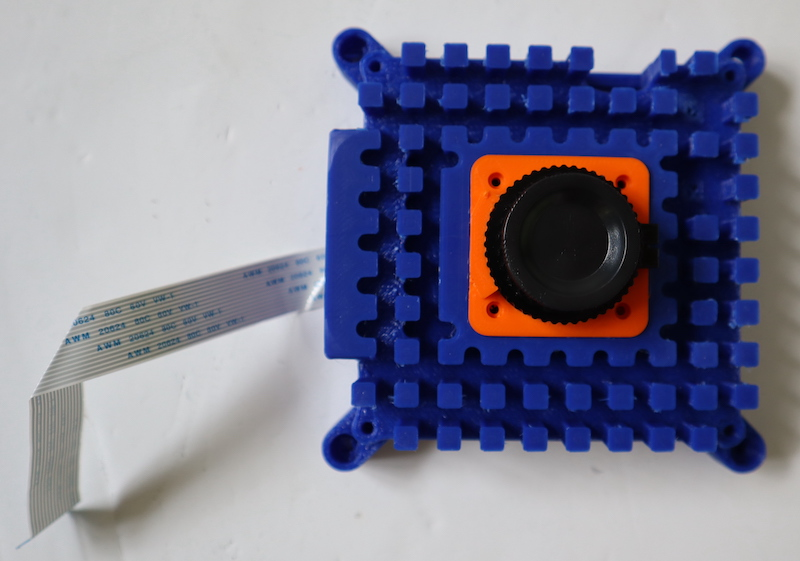
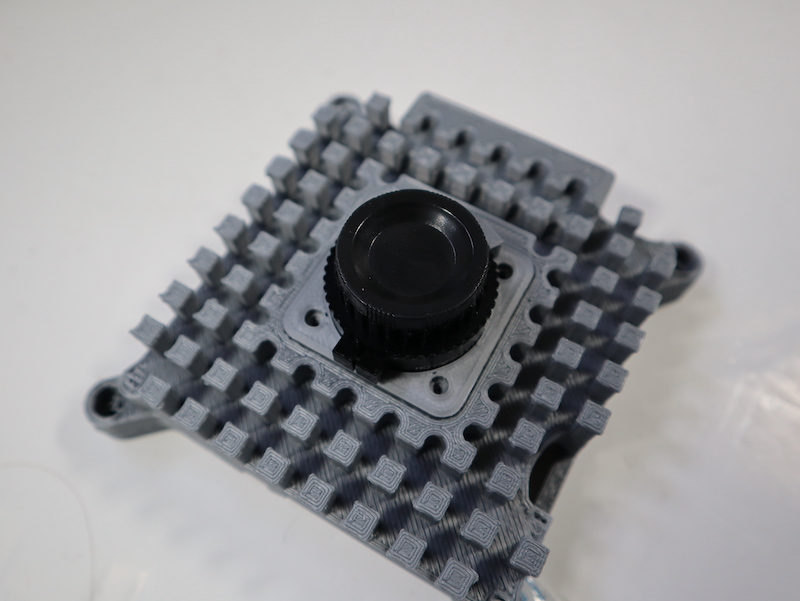
added more assembly photos for camera and spacers

diff --git a/en/step_5.md b/en/step_5.md
@@ -16,30 +16,40 @@ Firstly, remove the tripod mount form the HQC sensor by unscrewing the two bolts
 --- task ---
 Next, unscrew the two 1.5 mm hex lock keys on the underside of the main circuit board. Be careful not to let the washers roll away. There is a gasket of slightly sticky material between the housing and PCB which will require some force to separate.
 
+
 Lift up the board and place it face up on a very clean surface. Make sure the sensor (the small square in the middle) does not touch the surface.
+
+![Photo showing the disassembled Raspberry Pi HQC](images/HQC_disassembly.jpg)
+
+
 --- /task ---
 
 --- task ---
 
 Slide your 3D printed camera mount part around the black metal surround from the HQC sensor. Secure it place by lining up the holes in the bottom lip of the 3D printed part with the holes for the tripod mount. Attach using 2 XX screws (note you cannot use the original screws which held the tripod mount in place as they are too long)
 
+![Photo showing the Raspberry Pi HQC being attached to the 3D printed mount using an allen key](images/HQC_attach_screw.jpg)
+
+
 --- /task ---
 
 --- task ---
 Replace the main housing over the circuit board. Be sure to realign the housing with the gasket, which remains on the circuit board.
 
+[Photo showing the Raspberry Pi HQC PCB aligned back on the mount](images/HQC_no_screws.jpg)
+
 The nylon washer prevents damage to the circuit board; apply this washer first. Next, fit the steel washer, which prevents damage to the nylon washer.
 
 Screw down the two hex lock keys. As long as the washers have been fitted in the correct order, they do not need to be screwed very tightly.
 
-![Photo showing the correct orientation of the camera cable](images/cam-fold1.png)
+![Photo showing a screw being re-inserted through the HQC PCB into the mount](images/HQC_PCB_screw.jpg)
 --- /task ---
 
 --- task ---
 
 Now lift the two tabs on either side of the High Quality Camera to re-connect the ribbon cable from the camera. Note the blue side of the cable should be facing as shown. 
 
-![Photo showing the correct orientation of the camera cable](images/camera_mount_with_HQC_back.JPG)
+![Photo showing the correct orientation of the camera cable](images/HQC_cable.jpg)
 
 --- /task ---
 
@@ -48,14 +58,14 @@ Now lift the two tabs on either side of the High Quality Camera to re-connect th
 
 Slip the cable through the slit in the base. Make sure you have the correct orientation so that the blue side will face the bottom of the case when folded as shown below
 
-![Photo showing the correct orientation of the camera cable](images/camera_slide_in.JPG)
+![Photo showing the correct orientation of the camera cable](images/camera_slide_in.jpg)
 
 --- /task ---
 
 --- task ---
 Slot the mount into position in the recess in the underside of the base part.  
 
-![Photo showing the correct orientation of the camera cable](images/camera_mount_in.JPG)
+![Photo showing the correct orientation of the camera cable](images/camera_mount_in.jpg)
 --- /task ---
 
 --- task ---
@@ -67,15 +77,16 @@ Then fold the ribbon and lay flat along the inside of the base part. Secure it w
 --- task ---
 Slot the camera mount into place. It will be a tight fit, so make sure that any excess skaffolding has been removed from the part itself and the cavity in the larger case part into which it sits. 
 
-![Photo showing the correct orientation of the camera cable](images/camera_cable_tape.JPG)
+![Photo showing the correct orientation of the camera cable](images/camera_cable_tape.jpg)
 --- /task ---
 
 --- task ---
 
-Use XX screws and nuts to secure the camera mount to the base. The nuts should be on the inside of the case. 
+Use M2 x 16 screws and M2 nuts to secure the camera mount to the base. The nuts should be on the inside of the case. 
 
-![Photo showing the correct orientation of the camera cable](images/camera_cable_tape.JPG)
+![Photo showing the HQC mount secured using 4 screws and nuts (inside case)](images/camera_cable_nuts.jpg)
+
+![Photo showing the HQC mount secured using 4 screws and nuts (outside case)](images/camera_cable_nuts2.jpg)
 --- /task ---
 
 
- Furthermore, try to avoid removing and re-threading the screws, as doing so will cut a new thread and, if done repeatedly, will erode the inside of the support pillar so that the screws will not hold.

diff --git a/en/step_9.md b/en/step_9.md
@@ -1,37 +1,19 @@
-## Create the button wires
+## Assemble the case
 
-Firstly, you need to prepare the button wires to be able to attach them to the buttons. In the real flight unit, we soldered the button wires on to make them more reliable. This is the most straightforard method, but you could also use connectors if you desire a less-permenant solution.    The colour of the wires is not important, as they are all exactly the same inside.
+Once you're happy that the internals of the case are complete, you can proceed to the final assembly stage.
 
-+ Take a coloured wire and, without cutting it, remove the black plastic sheath from **one** end. You can do this by pulling it off with wire cutters, or by pulling up the small tab and removing it by hand. This exposes a pin connector.
++ Take the lid and gently tuck the wires into the space on the right of the Pi as neatly as you can.
 
-+ Pass a plastic insulation boot over the pin connector narrow end first, and slide it out of the way down the wire. Then place the connector inside a crimp.
++ Place the lid on top of the case and align the heat sink on the bottom.
 
-![Crimping the wire](images/wire-crimping1.png)
++ Take the black M4 threaded bolts, and insert one through each of the holes in the corners of the case. Inserting all four bolts at this stage will help to line everything up and make it easier to secure the case with the nuts.
 
-+ Alternating the angle of your pliers, squash the crimp around the wire until there is no movement whatsoever of the pin connector within the crimp. Then slide the insulation boot back up over the wire and crimp.
++ Take one of the large hex nuts and use your index finger to place it against the bottom of the bolt. Push the bolt back up so that the nut is flush with the bottom of the case, and turn the head of the nut with your finger and thumb so that it catches the bolt thread. Tighten the nut with your fingers only.
 
-+ Repeat this six times with the other coloured jumper wires to create the wires we will connect to the six buttons.
+![Hold the bolt](images/hold-bolt.png)
 
-![Finished wire](images/wire-crimping2.png)
++ Once all four nuts are in place, you can do a final round of tightening with a screwdriver.
 
-Instead of connecting six more wires to the Raspberry Pi as ground wires, you will create a ground loop wire which connects to all of the buttons. This technique is also used in the real flight units.
++ Your Astro Pi is almost complete — the last thing to do is install your 3D-printed joystick cap by pressing it onto the joystick. For this, the real flight units use a TrackPoint cap from a Lenovo ThinkPad laptop!
 
-+ Take the piece of black wire, which should be approximately 50cm in length. Using a ruler and wire cutters, make five 10cm lengths.
-
-+ For each length, use wire strippers to expose at least 1cm of bare wire on both ends, then bend the wire into a U shape.
-
-![Black wire](images/wire-ushape.png)
-
-+ Now take a black jumper wire and remove the black plastic sheath from one end to expose the connector, just as you did before.
-
-+ Hold the connector next to the end of one of your 10cm lengths of black wire, and pass both wires through the narrow end of an insulation boot.
-
-+ Insert both wires together into a crimp and tighten the crimp as before.
-
-![Black wire](images/ground-wire1.png)
-
-+ Connect up the four remaining lengths of black wire to create a chain, crimping together a new wire with the exposed bare end of the previous wire. You will be left with one bare wire end as in the photograph below.
-
-![Black wire](images/ground-wire-loop.png)
-
-+ For the final end, use pliers to fold the bare wire over to make it twice as thick before putting this wire alone inside a crimp and tightening up as before. You should end up with a chain containing six crimped ends and one black plastic jumper end.
+![Install joystick](images/install-joystick.png)

diff --git a/en/step_6.md b/en/step_6.md
@@ -1,4 +1,4 @@
-## Install the Raspberry Pi 4
+## Install the Raspberry Pi 4 
 
 --- task ---
 
@@ -10,8 +10,6 @@ Firstly, ensure there's no residual scaffolding material around the SD card slot
 
 Once you're happy, line the Raspberry Pi up and do a fit check.  Don't insert the camera ribbon cable just yet.
 
-![](images/install-pi.png)
-
 --- /task ---
 
 
@@ -19,16 +17,51 @@ Once you're happy, line the Raspberry Pi up and do a fit check.  Don't insert th
 
 Next, screw the M2.5 11mm stand-offs into each corner of the Pi. With some light finger pressure they will cut their own thread in the support pillar pilot holes.
 
+
+![Photo showing the Raspberry Pi in the bottom case part, with a spacer screwed in to the top left corner mounting hole](images/pi_spacer_corner.jpg)
+
 After a few turns you'll need to use a small pair of pliers or a nut-driver to continue turning them. Try to get the stand-offs to go into the support pillars straight down, and not at a slight angle, because that can lead to alignment issues with the Sense HAT later on. Be careful while you do this and, again, stop turning as soon as the stand-off touches the Raspberry Pi to avoid splitting the pillars horizontally along the grain of the print.
+
+![Photo showing a nut driver being used to screw a spacer into place through the mouting hole in the Raspberry Pi PCB](images/pi_spacer_driver.jpg)
 
 If you are having trouble screwing in the stand-offs, screw one of the silver M2.5 cross-head screws into the stand-off, then use the screw head to screw the stand-off into the case. Once the stand-off is in place, don't forget to remove the screw.
 
 --- /task ---
 
-![Use a screw to help you](images/screwing-in-tip.png)
+![Photo showing the Raspberry Pi in the bottom case part, with a spacer screwed into each corner mounting hole](images/pi_spacer_corner.jpg)
+
 
 --- task ---
 
 You can now insert the camera ribbon cable into the CSI port of the Raspberry Pi. 
 
+![Photo showing the Raspberry Pi in the bottom case part, with the camera cable inserted](images/camera_cable_pi.jpg)
+
+
+
 --- /task ---
+
+### Install the tall header
+
+--- task ---
+
+Bend a pin which is the second from the end of the 23-pin tall header out by 90 degrees as shown below. This will enable you to connect the PIR to 5v. 
+
+--- /task ---
+
+--- task ---
+
+Add the extended 23-pin header to the Raspberry Pi GPIO pins, at the end away from the USB ports. The bent pin should be at the end furthest away from the USB ports, facing outwards into the case. 
+
+--- /task ---
+
+### Install stand-offs for the Sense HAT
+
+The Astro Pi Flight Units onboard the ISS have another custom circuit board in between the Raspberry Pi and Sense HAT which holds a real-time clock with backup battery. This mezzanine board also has some pins to allow easy connection to the push-buttons and the PIR. Unfortunately, the board is not mass-produced and available to the public.
+
+![3d cutaway diagram of a Flight Unit, showing the mezzanine board](images/3d_cutaway_mezz.png)
+
+
+Then, take an 8mm M2.5 stand-off and put a hex nut onto its thread before screwing it into the hole of the 11mm stand-off, as shown below. Do the same for the remaining three stand-offs.
+
+![Add standoffs](images/add-header-standoffs.png)

diff --git a/en/step_10.md b/en/step_10.md
@@ -1,11 +1,52 @@
-## Connect wires to the button terminals
+## Test the buttons
 
-First, you will connect your ground loop to the buttons.
++ Once you have assembled the Astro Pi, start it up with a monitor, keyboard, and mouse connected.
 
-+ Starting with the top button, take the crimped wire end furthest from the black plastic jumper lead. Slide the insulation boot down, hold the crimp between finger and thumb and push it all the way onto the button terminal. Once the crimp is firmly in place, slide the insulation boot back up.
+If you have the ESA-branded Astro Pi kit, the rainbow pattern on the LED matrix should disappear a few seconds after you turn the Astro Pi on, and the push-buttons should now type letters. You can test this in the terminal by running the test program at the bottom of this section.
 
-+ Repeat to attach one of the black ground wire connections to each of the six buttons.
+If you don't have the ESA-branded Astro Pi kit, the rainbow pattern on the LED matrix will remain visible after you turn the Astro Pi on, and the buttons will not work yet.
 
-![Ground wire connected to buttons](images/ground-wire-done.png)
+You will need to download some files and change a few configuration settings, so make sure your Astro Pi is online.
 
-+ Now take the coloured wires you made earlier and connect one crimped end to the spare terminal of each button, using exactly the same method.
++ Firstly, download the Device Tree overlay that maps the push-buttons to the corresponding keyboard keys. To do this, open a terminal window and enter these commands:
+
+```bash
+cd /boot/overlays
+sudo wget https://github.com/raspberrypilearning/astro-pi-flight-case/raw/master/data/dtb/astropi-keys.dtbo --no-check-certificate
+```
+
++ Type `ls` and check that the file `astropi-keys.dtbo` is now showing in the list of files.
+
++ Next, configure `config.txt` to load this overlay. Open the text file by typing:
+
+```bash
+sudo nano /boot/config.txt
+```
+
++ Go to the bottom of the file and enter the two lines below:
+
+```bash
+dtoverlay=rpi-sense
+dtoverlay=astropi-keys
+```
+
++ Press `Ctrl` + `O`, and then `Enter` to save, followed by `Ctrl` + `X` to quit.
+
++ Now reboot the Astro Pi.
+
+```bash
+sudo reboot
+```
+
+Now let's download and run a Python test program to check everything is working. The test code uses [Pygame](http://pygame.org/wiki/tutorials){:target="_blank"}, which means you need to do this test on a directly connected monitor. It will not work via remote access.
+
++ Open a terminal window and enter these commands:
+
+```bash
+cd ~
+wget https://github.com/raspberrypilearning/astro-pi-flight-case/raw/master/data/test_code/pygame_test.py --no-check-certificate
+chmod +x pygame_test.py
+./pygame_test.py
+```
+
++ Wiggle the joystick and press all push-buttons. If everything is working, the joystick will give a direction indication, and the buttons will show the corresponding letter on the LED matrix. Press `Escape` to exit.

diff --git a/en/step_7.md b/en/step_7.md
@@ -1,17 +1,19 @@
-## Install stand-offs for the Sense HAT
+## Install the push-buttons
 
-This is where we're going to deviate from what's inside the Astro Pi flight unit. The flight units have another circuit board in between the Raspberry Pi and Sense HAT which holds a real-time clock, an oscillator crystal, and a backup battery. This RTC board also has some pins with six connected push-buttons. Unfortunately, the board is not available to the public.
+This section assumes you are using the buttons from the Astro Pi [components kit](http://cpc.farnell.com/ucreate/uc-apk-comp1/astro-pi-component-kit-budget/dp/SC14158){:target="_blank"} from CPC. If you are using APEM buttons or another type of button, their installation might be different.
 
-Our goal was to keep the 3D-printed flight case as faithful to the original as possible, so the decision was taken to not alter it to accommodate the absence of this board. It may be possible for us to release the Gerber files for it in the future, so that people can make their own. We're going to use hex nuts of the same depth as the RTC board to compensate for its absence.
++ Take a button, then unscrew and remove the nut. Sometimes the nut will get stuck on the button cap, but it should come off if you wiggle it.
 
-+ Add the extended 23-way pin header to the Raspberry Pi GPIO pins, at the end away from the USB ports.
+![Remove nut from button](images/buttons1.png)
 
-+ Then, take an 8mm M2.5 stand-off and put a hex nut onto its thread before screwing it into the hole of the 11mm stand-off, as shown below. Do the same for the remaining three stand-offs.
++ Keeping the washer on the thread, insert the button from the underside of the lid.
 
-![Add standoffs](images/add-header-standoffs.png)
++ Then on the top side of the lid, put the nut back on and tighten it with your fingers. Check that the connectors are aligned horizontally on the underside before tightening fully.
 
-WARNING|&nbsp;
----|---
-![WiFi antenna](images/pi3_wifi.jpg)|A note for Pi 3 users. Using a **metal** stand-off next to the wireless antenna will degrade its performance and range. The advice is to either omit this stand-off from your build, or to use a nylon stand-off and nylon screw instead.
+![Insert button and screw on nut](images/buttons2.png)
 
-+ Do not install the Sense HAT yet, as it will get in the way when you connect the GPIO pins to the buttons.
++ Do the same for the remaining buttons; when you are done it should look like this:
+
+![Finished front and back](images/buttons3.png)
+
+If you are using the lid with the pilot holes, then you'll need to check the datasheet for your chosen button type to find the **threaded bushing diameter**. Then you can select a drill bit with this diameter, plus 1mm for clearance, and proceed to drill all six holes. We recommend using a vice or a G clamp to hold the lid in place while you drill. You can then install the buttons in accordance with their requirements.

diff --git a/en/step_8.md b/en/step_8.md
@@ -1,19 +1,30 @@
-## Install the push-buttons
+## Connect the buttons to the Raspberry Pi
 
-This section assumes you are using the buttons from the Astro Pi [components kit](http://cpc.farnell.com/ucreate/uc-apk-comp1/astro-pi-component-kit-budget/dp/SC14158){:target="_blank"} from CPC. If you are using APEM buttons or another type of button, their installation might be different.
++ Fit the middle section of the Astro Pi case onto the base. You should do this now, because the GPIO wires will prevent it from being fitted later.
 
-+ Take a button, then unscrew and remove the nut. Sometimes the nut will get stuck on the button cap, but it should come off if you wiggle it.
+Now you are going to wire the buttons to the free GPIO pins at the bottom of the header.
 
-![Remove nut from button](images/buttons1.png)
++ Turn the Astro Pi case so that the Ethernet and USB ports are at the bottom, and the GPIO pins are on the right of the Raspberry Pi.
 
-+ Keeping the washer on the thread, insert the button from the underside of the lid.
+![GPIO diagram](images/buttons_GPIO.png)
 
-+ Then on the top side of the lid, put the nut back on and tighten it with your fingers. Check that the connectors are aligned horizontally on the underside before tightening fully.
+The pins marked in red are where you will wire up the buttons, with the bottom of the diagram being the pins closest to the USB ports.
 
-![Insert button and screw on nut](images/buttons2.png)
++ Look at the **underside** of the lid, with the buttons on the left and the display hole on the right. Connect the coloured wire from each button to the corresponding pin below:
 
-+ Do the same for the remaining buttons; when you are done it should look like this:
+- Top four buttons
+    - Top: **GPIO 26**
+    - Bottom: **GPIO 13**
+    - Left: **GPIO 19**
+    - Right: **GPIO 20**
+- Bottom pair of buttons
+    - Left: **GPIO 21**
+    - Right: **GPIO 16**
 
-![Finished front and back](images/buttons3.png)
++ Finally, connect the ground wire to either pin 34 or 39 (labelled **Ground** on the GPIO diagram).
 
-If you are using the lid with the pilot holes, then you'll need to check the datasheet for your chosen button type to find the **threaded bushing diameter**. Then you can select a drill bit with this diameter, plus 1mm for clearance, and proceed to drill all six holes. We recommend using a vice or a G clamp to hold the lid in place while you drill. You can then install the buttons in accordance with their requirements.
+The lid will now be a bit awkward until we finish, but try to position it gently so it is not in the way.
+
+The picture below shows one of the flight units that went into space. On the right, you can see the base of the RTC board with the connector pins for the buttons. If you look at the button contacts on the left, you'll see we used only one black ground wire going from button to button.
+
+![Flight unit wiring](images/flight_unit_wiring.jpg)

diff --git a/en/step_11.md b/en/step_11.md
@@ -1,30 +1,14 @@
-## Connect the buttons to the Raspberry Pi
+## Challenge: improve your case
 
-+ Fit the middle section of the Astro Pi case onto the base. You should do this now, because the GPIO wires will prevent it from being fitted later.
+We've deliberately not shown a really polished gorgeous case, because we're hoping you'll go the extra mile and blow our socks off with yours! Show us your finished case by tweeting pictures of them to [@astro_pi](https://twitter.com/astro_pi){:target="_blank"} and [@raspberry_pi](https://twitter.com/Raspberry_Pi){:target="_blank"}.
 
-Now you are going to wire the buttons to the free GPIO pins at the bottom of the header.
+Here are some further ideas for customising your case:
 
-+ Turn the Astro Pi case so that the Ethernet and USB ports are at the bottom, and the GPIO pins are on the right of the Raspberry Pi.
+- Use metallic grey spray paint
+- Use sandpaper to create the matte finish that the bead-blasted aluminium flight cases have
+- Engrave decals into the case
+- Use different colours of filament for each part
 
-![GPIO diagram](images/buttons_GPIO.png)
+The STL files are released under the Creative Commons attribution [licence](http://creativecommons.org/licenses/by-sa/4.0/){:target="_blank"}, so you are welcome to modify them. Please note that GitHub has a great [STL viewer](https://github.com/blog/1465-stl-file-viewing){:target="_blank"}, as well as a [3D file diff](https://github.com/blog/1633-3d-file-diffs){:target="_blank"}, which could be useful for tracking your changes.
 
-The pins marked in red are where you will wire up the buttons, with the bottom of the diagram being the pins closest to the USB ports.
-
-+ Look at the **underside** of the lid, with the buttons on the left and the display hole on the right. Connect the coloured wire from each button to the corresponding pin below:
-
-- Top four buttons
-    - Top: **GPIO 26**
-    - Bottom: **GPIO 13**
-    - Left: **GPIO 19**
-    - Right: **GPIO 20**
-- Bottom pair of buttons
-    - Left: **GPIO 21**
-    - Right: **GPIO 16**
-
-+ Finally, connect the ground wire to either pin 34 or 39 (labelled **Ground** on the GPIO diagram).
-
-The lid will now be a bit awkward until we finish, but try to position it gently so it is not in the way.
-
-The picture below shows one of the flight units that went into space. On the right, you can see the base of the RTC board with the connector pins for the buttons. If you look at the button contacts on the left, you'll see we used only one black ground wire going from button to button.
-
-![Flight unit wiring](images/flight_unit_wiring.jpg)
+By far the greatest benefit of owning a replica Astro Pi flight unit is the ability to prototype and test code that could be run on the International Space Station. Head over to the [Astro Pi website](https://astro-pi.org/){:target="_blank"} now to get involved!

diff --git a/en/step_1.md b/en/step_1.md
@@ -4,8 +4,6 @@ The Astro Pi Flight Unit is one of the most sought-after cases in the history of
 
 In this resource, you will learn how to 3D print your own Astro Pi Mark II Flight Unit case and install the Astro Pi hardware inside it. You’ll then have your very own Astro Pi flight unit, identical in almost every way to the new ones which will soon be operational on the International Space Station right.
 
-
-
 ### What you will make
 
 --- no-print ---
@@ -32,11 +30,12 @@ title: What you will need
 + 2 push buttons
 + 4 Jumper wires, one end needs to be male.
 + Kemet PIR
-+ fastenings
++ Standaoffs: M2.5 x 11mm 
++ Standaoffs: M2.5 x 10mm 
 + fastenings
 + fastenings
 
-If you want to buy the exact buttons used in the Astro Pi flight unit, the details are below. At a price of £10 each, they are expensive — that's because they're designed to survive an enormous number of clicks before wearing out, a feature which is necessary for a five-year space mission.
+If you want to buy the exact buttons used in the Astro Pi flight unit, the details are below. At a price of £11 each, they are expensive — that's because they're designed to survive an enormous number of clicks before wearing out, a feature which is necessary for a five-year space mission.
 
 ![Astro Pi actual button](images/apem.jpg)
 

diff --git a/en/step_3.md b/en/step_3.md
@@ -13,6 +13,7 @@ We tried this project on a range of 3D printers including:
  [Lulzbot Taz 6](https://www.lulzbot.com/store/printers/lulzbot-taz-6)
  [Lulzbot Mini](https://www.lulzbot.com/store/printers/lulzbot-mini)
 
+![Photo showing a 3d printed Flight Unit top panel sitting on the bed of a Lulzbot Mini printer ](images/lulbotmini.JPG)
 
  We mainly used PLA filament in our prints, but we have also printed test cases using ABS.  There are many different 3D printer models so you should make any necessary adaptations to the instructions in order to get the best results from your particular machine.  
 
